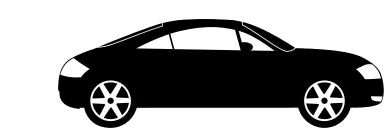
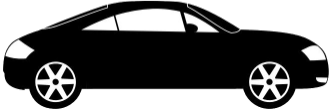
Add Normal line to car image Reduce car width Adjust timescale for speedy runs Move dragging handler to image renderer for car Convert circle point to a small marker at base of car [#150088802] [#150087316]

diff --git a/js/components/car.js b/js/components/car.js
@@ -1,5 +1,5 @@
 import React from 'react'
-import { Text, Group, Circle } from 'react-konva'
+import { Text, Group, Circle, Line, Rect } from 'react-konva'
 import VehicleImage from './vehicle-image'
 import {
   calculateRampAngle,
@@ -18,9 +18,10 @@ import CodapHandler from './codap-handler'
 const DEFAULT_APPEARANCE = {
   scale: 20,
   fillColor: 'red',
-  stroke: 'black',
-  strokeWidth: 2
+  stroke: 'red',
+  strokeWidth: 1
 }
+const TIMESCALE = 200
 
 class Car extends React.Component{
   constructor(props) {
@@ -32,13 +33,9 @@ class Car extends React.Component{
       theta: 0,
       rampAcceleration: 0,
       groundAcceleration: 0,
-      isDragging: false,
       carVelocity: 0,
       appearance: DEFAULT_APPEARANCE
     }
-    this.onDrag = this.onDrag.bind(this)
-    this.onDragStart = this.onDragStart.bind(this)
-    this.onDragEnd = this.onDragEnd.bind(this)
     this.clampPosition = this.clampPosition.bind(this)
     this.setPositionInWorld = this.setPositionInWorld.bind(this)
     this.updateRampAngles = this.updateRampAngles.bind(this)
@@ -73,8 +70,7 @@ class Car extends React.Component{
         startTime: 0,
         startPos: carPos.x,
         onRamp: carPos.x < simSettings.RampEndX,
-        carVelocity: 0,
-        isDragging: false
+        carVelocity: 0
       })
     }
   }
@@ -93,7 +89,6 @@ class Car extends React.Component{
       onRamp: carPos.x < simSettings.RampEndX,
       carVelocity: 0,
       startGroundVelocity: 0,
-      isDragging: false,
       finalDistance: 0,
       currentRun: []
     })
@@ -117,7 +112,6 @@ class Car extends React.Component{
       onRamp: carPos.x < simSettings.RampEndX,
       carVelocity: 0,
       startGroundVelocity: 0,
-      isDragging: false,
       finalDistance: d,
       currentRun: []
     })
@@ -136,9 +130,9 @@ class Car extends React.Component{
 
       if (!startTime || startTime === 0) {
         t = currentTimestamp
-        sgt = calculateTimeToGround(po, simSettings.RampEndX, rampAcceleration, simSettings.Scale) * 1000 + t
+        sgt = calculateTimeToGround(po, simSettings.RampEndX, rampAcceleration, simSettings.Scale) * TIMESCALE + t
         // get initial velocity when reaching the ground
-        sgv = calculateVelocity(0, rampAcceleration, (sgt-t)/1000)
+        sgv = calculateVelocity(0, rampAcceleration, (sgt-t)/TIMESCALE)
         this.setState({ startTime: currentTimestamp, startGroundTime: sgt, startGroundVelocity: sgv })
       }
       else {
@@ -146,8 +140,8 @@ class Car extends React.Component{
         let deltaTime = currentTimestamp - previousTimestamp
         let elapsedTime = currentTimestamp - startTime
         // dt and et will be in ms, convert to seconds
-        let dt = deltaTime / 1000
-        let et = elapsedTime / 1000
+        let dt = deltaTime / TIMESCALE
+        let et = elapsedTime / TIMESCALE
         let fps = Math.round(1 / dt)
 
         let p = carPos.x
@@ -162,7 +156,7 @@ class Car extends React.Component{
           }
           // car on ground
           else {
-            let egt = (currentTimestamp - sgt) / 1000
+            let egt = (currentTimestamp - sgt) / TIMESCALE
             let nextP = calculateAcceleratedPosition(simSettings.RampEndX, sgv, egt, slowAcceleration, simSettings.Scale)
 
             if (nextP > simSettings.SimWidth || nextP - p < 0.01) {
@@ -252,44 +246,19 @@ class Car extends React.Component{
     return pos <= min ? min : pos >= max ? max : pos
   }
 
-  onDrag(e) {
-    const { isDragging, simSettings } = this.state
-    if (isDragging) {
-      this.setPositionInWorld(e.layerX, 0)
-
-    }
-  }
-
-  onDragStart(e) {
-    this.setState({
-      isDragging: true,
-      startTime: 0
-    })
-
-    document.addEventListener('mousemove', this.onDrag)
-    document.addEventListener('mouseup', this.onDragEnd)
-    document.addEventListener('touchmove', this.onDrag)
-    document.addEventListener('touchend', this.onDragEnd)
-
-    event.preventDefault();
-  }
-
-  onDragEnd(e) {
-    this.setState({
-      isDragging: false
-    })
-    document.removeEventListener('mousemove', this.onDrag)
-    document.removeEventListener('mouseup', this.onDragEnd)
-    document.removeEventListener('touchmove', this.onDrag)
-    document.removeEventListener('touchend', this.onDragEnd)
-
-    event.preventDefault();
+  generateNormalLine(x, y, lineLength) {
+    const { simSettings, onRamp } = this.state
+    let endPointX = onRamp ? x + (lineLength * Math.sin(simSettings.RampAngle)) : x
+    let endPointY = onRamp ? y - (lineLength * Math.cos(simSettings.RampAngle)) : y - lineLength
+    let points = [ x, y, endPointX, endPointY]
+    return points
   }
 
   render() {
     const { appearance, hasClicked, carPos, fps, carVelocity, finalDistance, onRamp, simSettings } = this.state
-    let height = 20
-    let width = 20
+    let height = 15
+    let width = 45
+    let lineLength = 22
     let center = carPos
     let fpsText = fps ? 'fps: ' + fps : ""
     let velText = 'vel: ' + Math.round(carVelocity)
@@ -298,6 +267,8 @@ class Car extends React.Component{
     let angle = onRamp ? simSettings.RampAngle * 180 / Math.PI : 0
     let rampDistanceText = carPos.rampDistance > 0 ? "Car ramp distance: " + carPos.rampDistance.toFixed(2) : ""
 
+    let normalLinePoints = this.generateNormalLine(center.x, center.y, lineLength)
+
     return (
       <Group>
         <Text x={10} y={20} fontFamily={'Arial'} fontSize={12} text={fpsText} />
@@ -305,10 +276,11 @@ class Car extends React.Component{
         <Text x={10} y={50} fontFamily={'Arial'} fontSize={12} text={finalDistanceText} />
         <Text x={10} y={65} fontFamily={'Arial'} fontSize={12} text={rampDistanceText} />
         <Circle x={center.x} y={center.y}
-          width={width} height={height}
-          fill={appearance.fillColor} stroke={appearance.stroke} strokeWidth={appearance.strokeWidth}
-          onMouseDown={this.onDragStart} />
-        <VehicleImage x={center.x} y={center.y} width={60} height={20} angle={angle} onRamp={onRamp} />
+          radius={width/10}
+           fill={appearance.fillColor}
+        />
+        <Line points={normalLinePoints} stroke={'red'} strokeWidth={2} />
+        <VehicleImage x={center.x} y={center.y} width={width} height={height} angle={angle} onRamp={onRamp} setPositionInWorld={this.setPositionInWorld} />
       </Group>
     )
   }

diff --git a/js/components/vehicle-image.js b/js/components/vehicle-image.js
@@ -1,16 +1,21 @@
 import React from 'react'
 import { Image } from 'react-konva';
 
-// Car image is aligned to the right edge of the png with some spacing at the left edge
-const centerAdjust = 1.6
+// to adjust where the center point of the image is, lower numbers place center near the front of the car
+const centerAdjust = 1.8
 
 // try drag& drop rectangle
 export default class VehicleImage extends React.Component {
   constructor(props) {
     super(props)
     this.state = {
-      image: null
+      image: null,
+      isDragging: false
     }
+    this.onDrag = this.onDrag.bind(this)
+    this.onDragStart = this.onDragStart.bind(this)
+    this.onDragEnd = this.onDragEnd.bind(this)
+    this.setPositionInWorld = this.setPositionInWorld.bind(this)
   }
   componentDidMount() {
     const image = new window.Image();
@@ -20,6 +25,44 @@ export default class VehicleImage extends React.Component {
         image: image
       });
     }
+  }
+
+  setPositionInWorld(x) {
+    this.props.setPositionInWorld(x, 0)
+  }
+
+  onDrag(e) {
+    const { isDragging, simSettings } = this.state
+    if (isDragging) {
+      this.setPositionInWorld(e.layerX, 0)
+
+    }
+  }
+
+  onDragStart(e) {
+    this.setState({
+      isDragging: true,
+      startTime: 0
+    })
+
+    document.addEventListener('mousemove', this.onDrag)
+    document.addEventListener('mouseup', this.onDragEnd)
+    document.addEventListener('touchmove', this.onDrag)
+    document.addEventListener('touchend', this.onDragEnd)
+
+    event.preventDefault();
+  }
+
+  onDragEnd(e) {
+    this.setState({
+      isDragging: false
+    })
+    document.removeEventListener('mousemove', this.onDrag)
+    document.removeEventListener('mouseup', this.onDragEnd)
+    document.removeEventListener('touchmove', this.onDrag)
+    document.removeEventListener('touchend', this.onDragEnd)
+
+    event.preventDefault();
   }
 
   getCornerPosition(x, y, width, height, theta) {
@@ -43,7 +86,7 @@ export default class VehicleImage extends React.Component {
 
   render() {
     const { x, y, width, height, angle, onRamp } = this.props
-    let w = width / 1.5
+    let w = width*0.75
     let h = height
 
     let topLeftPos = {x: 0, y: 0}
@@ -61,6 +104,7 @@ export default class VehicleImage extends React.Component {
         image={this.state.image}
         x={topLeftPos.x} y={topLeftPos.y} width={w} height={h}
         rotation={imageAngle}
+        onMouseDown={this.onDragStart}
       />
     );
   }
